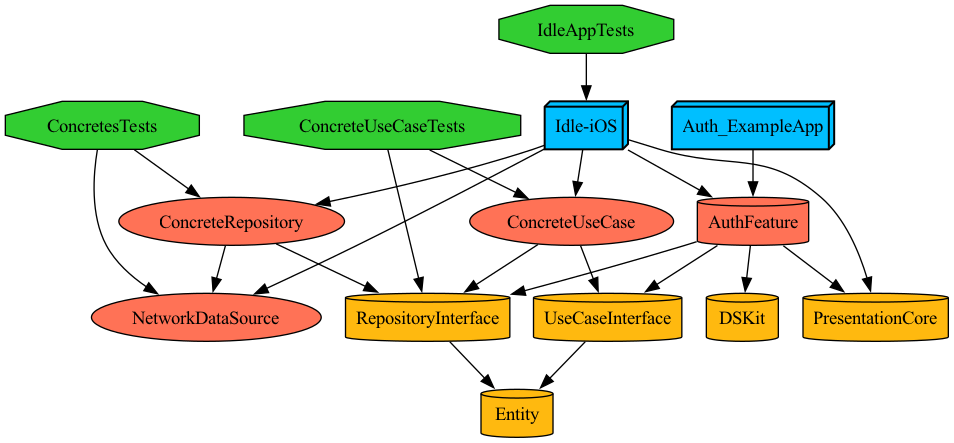
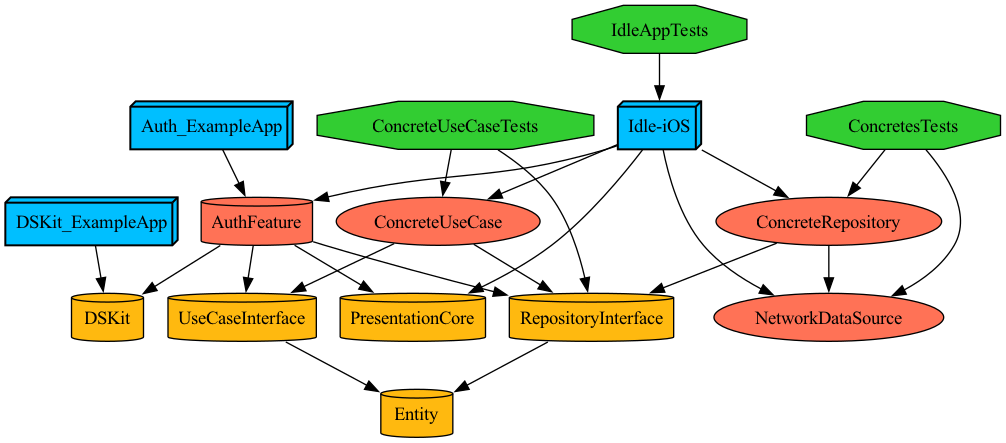
[IDLE-000] DSKit 예시앱 생성

Changed region(s): [[0.0, 0.0, 1.0, 0.9977], [0.3344, 0.851, 0.456, 0.9977], [0.304, 0.7923, 0.3344, 0.8217]]

diff --git a/project/Projects/Presentation/DSKit/ExampleApp/Sources/AppDelegate.swift b/project/Projects/Presentation/DSKit/ExampleApp/Sources/AppDelegate.swift
@@ -1,0 +1,36 @@
+//
+//  AppDelegate.swift
+//  
+//
+//  Created by 최준영 on 6/19/24.
+//
+
+import UIKit
+
+@main
+class AppDelegate: UIResponder, UIApplicationDelegate {
+
+
+
+    func application(_ application: UIApplication, didFinishLaunchingWithOptions launchOptions: [UIApplication.LaunchOptionsKey: Any]?) -> Bool {
+        // Override point for customization after application launch.
+        return true
+    }
+
+    // MARK: UISceneSession Lifecycle
+
+    func application(_ application: UIApplication, configurationForConnecting connectingSceneSession: UISceneSession, options: UIScene.ConnectionOptions) -> UISceneConfiguration {
+        // Called when a new scene session is being created.
+        // Use this method to select a configuration to create the new scene with.
+        return UISceneConfiguration(name: "Default Configuration", sessionRole: connectingSceneSession.role)
+    }
+
+    func application(_ application: UIApplication, didDiscardSceneSessions sceneSessions: Set<UISceneSession>) {
+        // Called when the user discards a scene session.
+        // If any sessions were discarded while the application was not running, this will be called shortly after application:didFinishLaunchingWithOptions.
+        // Use this method to release any resources that were specific to the discarded scenes, as they will not return.
+    }
+
+
+}
+

diff --git a/project/Projects/Presentation/DSKit/Project.swift b/project/Projects/Presentation/DSKit/Project.swift
@@ -27,6 +27,24 @@ let proejct = Project(
             settings: .settings(
                 configurations: IdleConfiguration.presentationConfigurations
             )
-        )
+        ),
+        
+        // Component를 테스트하는 Example타겟
+        .target(
+            name: "DSKit_ExampleApp",
+            destinations: DeploymentSettings.platform,
+            product: .app,
+            bundleId: "$(PRODUCT_BUNDLE_IDENTIFIER)",
+            deploymentTargets: DeploymentSettings.deployment_version,
+            infoPlist: IdleInfoPlist.exampleAppDefault,
+            sources: ["ExampleApp/Sources/**"],
+            resources: ["ExampleApp/Resources/**"],
+            dependencies: [
+                D.Presentation.DSKit
+            ],
+            settings: .settings(
+                configurations: IdleConfiguration.presentationConfigurations
+            )
+        ),
     ]
 )

diff --git a/project/Projects/Presentation/DSKit/ExampleApp/Sources/ViewController.swift b/project/Projects/Presentation/DSKit/ExampleApp/Sources/ViewController.swift
@@ -1,0 +1,30 @@
+//
+//  ViewController.swift
+//  
+//
+//  Created by 최준영 on 6/19/24.
+//
+
+import UIKit
+import DSKit
+
+class ViewController: UIViewController {
+    
+    override func viewDidLoad() {
+        
+        let initialLabel = UILabel()
+        
+        initialLabel.text = "DSKit Example app"
+        
+        view.backgroundColor = .white
+        
+        view.addSubview(initialLabel)
+        initialLabel.translatesAutoresizingMaskIntoConstraints = false
+        
+        NSLayoutConstraint.activate([
+            initialLabel.centerXAnchor.constraint(equalTo: view.centerXAnchor),
+            initialLabel.centerYAnchor.constraint(equalTo: view.centerYAnchor),
+        ])
+    }
+}
+

diff --git a/project/Projects/Presentation/DSKit/ExampleApp/Sources/SceneDelegate.swift b/project/Projects/Presentation/DSKit/ExampleApp/Sources/SceneDelegate.swift
@@ -1,0 +1,23 @@
+//
+//  SceneDelegate.swift
+//
+//
+//  Created by 최준영 on 6/19/24.
+//
+
+import UIKit
+
+class SceneDelegate: UIResponder, UIWindowSceneDelegate {
+    
+    var window: UIWindow?
+    
+    func scene(_ scene: UIScene, willConnectTo session: UISceneSession, options connectionOptions: UIScene.ConnectionOptions) {
+        
+        guard let windowScene = scene as? UIWindowScene else { return }
+        
+        
+        window = UIWindow(windowScene: windowScene)
+        window?.rootViewController = ViewController()
+        window?.makeKeyAndVisible()
+    }
+}
